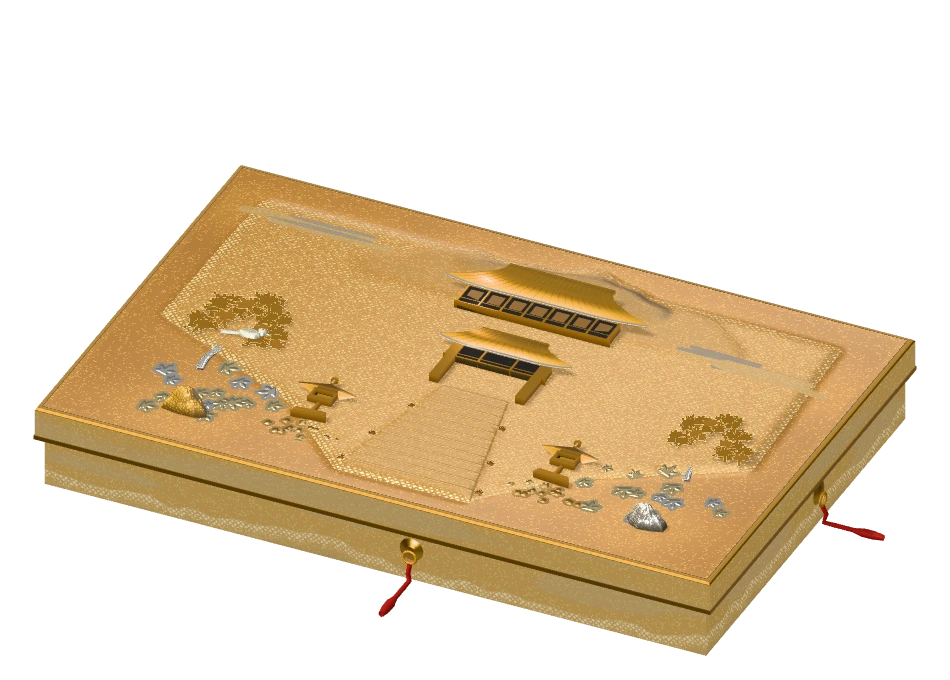
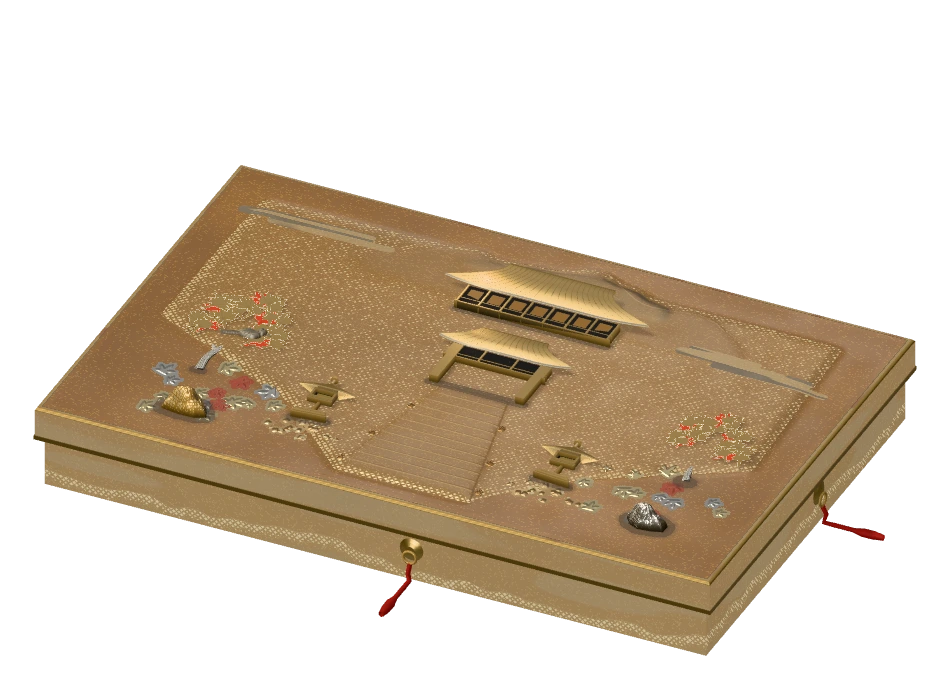
feat(plate): worn lip and corners, dirt down the walls, age .85 by default; fallback pictures reshot (patina P5)
- Lid border wears through to the under-lacquer in patches, most at the corners;
  box walls darken toward the foot and under the lid; the box's gold edges go pale.
- AGE_DEFAULT .85 (median luminance 50-53 against the Hatsune photo's 50-53).
- plate-shot.mjs: PLATE_CPU throttles before PLATE_EVAL, for frame-time readings.
- Test for agedSpec and the unsoftened contact field.
- docs: results and what missed its target in plans/2026-11-16-patina.md; handoff.

Changed region(s): [[0.0305, 0.2471, 0.9768, 0.8647], [0.4274, 0.8029, 0.4579, 0.8338]]

diff --git a/src/studies/toji/plate/three-pack.js b/src/studies/toji/plate/three-pack.js
@@ -61,11 +61,11 @@ export const BOX_MATERIALS = {
   // Hatsune: the whole body is nashiji (amber lacquer over gold powder), not black lacquer (user decision, handoff §3).
   20: {name: 'side', color: '#a8722e', metalness: .72, roughness: .45, clearcoat: 1, clearcoatRoughness: .06, flake: 0, nashijiSide: true},
   // The lid's lip: gold, as on the Hatsune boxes (museum photos show no silver rim).
-  21: {name: 'rim', color: '#c39345', metalness: 1, roughness: .3, clearcoat: .2, clearcoatRoughness: .1, flake: .2},
+  21: {name: 'rim', aged: {color: '#ad9668', roughness: .46}, color: '#c39345', metalness: 1, roughness: .3, clearcoat: .2, clearcoatRoughness: .1, flake: .2},
   22: {name: 'inner', color: '#8c6a2d', metalness: .8, roughness: .5, clearcoat: .5, clearcoatRoughness: .1, flake: .5},
   23: {name: 'paper', color: '#cdbd98', metalness: 0, roughness: .9, clearcoat: 0, clearcoatRoughness: 0, flake: 0},
-  24: {name: 'gold', color: '#d7a64a', metalness: 1, roughness: .3, clearcoat: .2, clearcoatRoughness: .1, flake: .3},
-  26: {name: 'edge', color: '#c99a42', metalness: 1, roughness: .3, clearcoat: .2, clearcoatRoughness: .1, flake: .3},
+  24: {name: 'gold', aged: {color: '#c2aa76', roughness: .46}, color: '#d7a64a', metalness: 1, roughness: .3, clearcoat: .2, clearcoatRoughness: .1, flake: .3},
+  26: {name: 'edge', aged: {color: '#b39c6c', roughness: .46}, color: '#c99a42', metalness: 1, roughness: .3, clearcoat: .2, clearcoatRoughness: .1, flake: .3},
   27: {name: 'cord', color: '#85100a', metalness: 0, roughness: .6, clearcoat: 0, clearcoatRoughness: 0, flake: 0},
   28: {name: 'tray', color: '#b4843a', metalness: .8, roughness: .5, clearcoat: .5, clearcoatRoughness: .1, flake: .5},
 };
@@ -502,7 +502,7 @@ const vec3 M_AGE_BODY=vec3(.42,.35,.22), M_AGE_BODY_NIGHT=vec3(.80,.74,.62), M_A
 // The coat no longer mirrors evenly (M_AGE_HAZE: how far its gloss swings from place to place), the lacquer lies a
 // little thicker here and thinner there (M_AGE_MURA: the swing in the ground's value), and where a bank's crown has
 // been rubbed for centuries the red-brown under-lacquer shows through the gold (M_AGE_WEAR, M_UNDER).
-const float M_AGE_HAZE=1.1, M_AGE_MURA=.26, M_AGE_WEAR=.5;
+const float M_AGE_HAZE=1.1, M_AGE_MURA=.26, M_AGE_WEAR=.3;
 const vec3 M_UNDER=vec3(.21,.075,.04);
 const vec3 M_CORAL=vec3(.60,.115,.06);
 const vec3 M_TARNISH=vec3(.46,.42,.36);
@@ -630,6 +630,10 @@ if(abs(kp.x)>M_HALF.x||abs(kp.y)>M_HALF.y){
   vec2 e=abs(kp)-M_HALF;float out_=max(e.x,e.y);
   mWake=0.;mSh=1.;mSetLight(normalize(vKyotoNormal),vKyotoWorld);
   vec3 bc=out_>7.4?mMetal(kp,M_GOLD*.92,1.):out_>6.4?mMetal(kp,M_GOLD*.6,1.):mNashiji(kp,.9,M_GOLD);
+  // The lip is where hands lift the lid: its gold has worn through to the lacquer in patches, most at the corners.
+  float corner=smoothstep(.86,1.,min(abs(kp.x)/M_HALF.x,abs(kp.y)/M_HALF.y));
+  float worn=uAge*step(6.4,out_)*smoothstep(.62-.22*corner,.80,mVnoise(kp*.045+2.))*.7;
+  bc=mix(bc,M_UNDER*(.3+mLight()),worn);
   outgoingLight=mFinish(bc,1.).rgb;
   diffuseColor.a=1.;
 }else{
@@ -732,7 +736,7 @@ if(abs(kp.x)>M_HALF.x||abs(kp.y)>M_HALF.y){
     c=mix(c,wtr,m);
   }
   if(uAge>0.&&mat>=2&&mat<=4){
-    float wr=smoothstep(.45,.85,hs)*smoothstep(.52,.74,mVnoise(kp*.16+5.))*M_AGE_WEAR*uAge;
+    float wr=smoothstep(.62,.95,hs)*smoothstep(.50,.72,mVnoise(M_R1*kp*.07+5.)*.62+mVnoise(M_R2*kp*.19)*.38)*M_AGE_WEAR*uAge;
     c=mix(c,M_UNDER*(.3+L),wr);
   }
   if(uAge>0.){
@@ -774,6 +778,9 @@ export const BOX_SIDE_FRAG_GLSL = `
   c=mix(c,mKiriColor(mix(M_GOLD,M_PALE,.6)),kv)+M_PALE*kg;
   // Walls face the room, not the window: keep them a warmer, slightly deeper amber than the lid.
   const float K_SIDE_DIM=.82; // dim box walls one step below the lid while keeping rim and edge bright
+  // Dirt gathers toward the foot of the walls, and under the lid's overhang.
+  float low=smoothstep(-96.,-132.,sp.y)*(.75+.5*mVnoise(vec2(sp.x*.02,7.))),under=body*smoothstep(-47.,-36.,sp.y);
+  c=mix(c,c*vec3(.50,.43,.36),clamp(low*.62+under*.4,0.,.8)*uAge);
   outgoingLight=mFinish(c*vec3(1.,.86,.62)*.9*K_SIDE_DIM,1.).rgb;
 }`;
 

diff --git a/src/studies/toji/plate/three-renderer.js b/src/studies/toji/plate/three-renderer.js
@@ -29,7 +29,7 @@ import {
 
 const EYE = [430, 720, 920], TARGET = [0, 40, 0];
 /** How old the box looks unless ?age= says otherwise: 0 is as new, 1 is the Hatsune trousseau as it is today. */
-const AGE_DEFAULT = .7;
+const AGE_DEFAULT = .85;
 const VIEW = normalize(EYE.map((v, i) => v - TARGET[i])), KEY = normalize([-.5, .78, .22]);
 const STRIDE = 10;
 const SHADOW_SOFT = 6; // PCF shadow filter radius in texels for softer window-light penumbra
@@ -364,8 +364,8 @@ normal = normalize(normal - kyotoGrad.x * vTreeTanX - kyotoGrad.y * vTreeTanZ);`
   boxGroup.add(mesh(buffers(lidTop.position, lidTop.normal, lidTop.uv, lidTop.part), groundMaterial, groundDepth));
   let boxVertices = box.lidTop;
   for (const [id, slice] of sliceBox(box.data, box.lidTop, box.opaque)) {
-    const spec = BOX_MATERIALS[id];
-    if (!spec) throw new Error(`three renderer: no material for box id ${id}`);
+    if (!BOX_MATERIALS[id]) throw new Error(`three renderer: no material for box id ${id}`);
+    const spec = agedSpec(BOX_MATERIALS[id], shared.uAge.value);
     // The cords are drawn live; the fixed geometry here never carries id 27 (they come from cordTube), but guard anyway.
     const boxMaterial = patchMaterial(physical(spec), spec, BOX_MOTION_GLSL, 'kyotoBox');
     if (spec.nashijiSide) {

diff --git a/docs/HANDOFF.md b/docs/HANDOFF.md
@@ -7,7 +7,7 @@
 | 項目 | 狀態 |
 |---|---|
 | 主線 | `main` 與 `origin/main` 在 `7dca894`（2026-11-16，使用者同意合併與 push，部署成功）：開案書 R0–R10 與銀的補強都已上線。實際 HEAD 以 `git log -1 main` 為準 |
-| 工作分支 | `claude/patina-1116`（從 `main` 開）：目前只有作舊的開案書 [`plans/2026-11-16-patina.md`](plans/2026-11-16-patina.md)，**等使用者同意後開工**。上一輪的總表見 [`agent-runs/2026-11-16-overnight-chain.md`](agent-runs/2026-11-16-overnight-chain.md) |
+| 工作分支 | `claude/patina-1116`（從 `main` 開）：作舊與材質深度 P0–P5、紅珊瑚與青貝（[開案書與結果](plans/2026-11-16-patina.md)）。**尚未合併 `main`、尚未 push**。上一輪的總表見 [`agent-runs/2026-11-16-overnight-chain.md`](agent-runs/2026-11-16-overnight-chain.md) |
 | 本機分支清理 | 2026-11-16 刪除已併入 `main` 的本機 `claude/great-brahmagupta-ye2uqt`、`claude/threert-reference`（刪前確認 `git log main..<branch>` 為 0） |
 | 遠端分支 | 2026-11-16 刪除已併入 `main` 的 `origin/claude/great-brahmagupta-ye2uqt`、`origin/claude/amazing-cerf-cuoj8j`（使用者同意）。遠端只剩 `main` |
 | 子代理工作樹 | 放在 `C:\Git\_wt_kyoto_<topic>`（`git worktree add`），由主代理建立與刪除。本輪用過的兩個已移除；目前有哪些以 `git worktree list` 為準 |
@@ -31,27 +31,28 @@ npm run dev -- --host 127.0.0.1 --strictPort
 |---|---|
 | 資料 | **792 筆**，`validate_data.js --strict` ERROR 0／WARN 0。2026-11-16 查完十一區所有食處（Tabelog）與「世界遺產」「國寶」標籤：退役 17 筆、改區 27 筆。「營業中」的依據是 Tabelog 英文版沒有閉店類標示，不是現場確認。寺社、商店等其他類型的事實查核還沒做 |
 | 首頁文庫 | 十一區文箱，每區一面蒔繪盤；單指盒面移光，長拖換函，雙指捏合／滾輪／快捷鍵放大（上限 3 倍），點蓋／Enter／空白鍵開蓋直入 `DetailView`；月光預設、閒置移光 |
-| 蒔繪盤 | **只有 three.js 一條管線**（`plate/three-renderer.js`＋`three-pack.js`）。舊的自寫 WebGL2 管線、2.5D 浮雕與 `?three=0` 已刪。狐、鳳凰、鶯、銀沙灘與向月台、石垣都是 three 網格，沒有平塗佔位。岩面是菱形切金（受光大而密、背光小而疏），銀岩是銀。地有疏密場（靠近物較密）。九區有依附小景（`plate/<區>.js` 裡帶 `on` 欄位的部件）。**銀的分工**（2026-11-16 對照德川美術館「初音蒔絵文台・硯箱（部分）」照片）：葉是金的樹，幹與枝是銀（背光氧化銀灰、受光淡銀、上面是切銀）；開銀花的櫻保留金幹；霞帶的金裡躺著細長的灰銀條 |
+| 蒔繪盤 | **只有 three.js 一條管線**（`plate/three-renderer.js`＋`three-pack.js`）。舊的自寫 WebGL2 管線、2.5D 浮雕與 `?three=0` 已刪。狐、鳳凰、鶯、銀沙灘與向月台、石垣都是 three 網格，沒有平塗佔位。岩面是菱形切金（受光大而密、背光小而疏），銀岩是銀。地有疏密場（靠近物較密）。九區有依附小景（`plate/<區>.js` 裡帶 `on` 欄位的部件）。**銀的分工**（2026-11-16 對照德川美術館「初音蒔絵文台・硯箱（部分）」照片）：葉是金的樹，幹與枝是銀（背光氧化銀灰、受光淡銀、上面是切銀）；開銀花的櫻保留金幹；霞帶的金裡躺著細長的灰銀條。**作舊**（`claude/patina-1116`，未上線）：總開關 `?age=0..1`（預設 .85，0 是全新）；地是深棕橙的梨子地、圖的金比地淡、岩與樹幹的陰面是硫化銀的暖深灰、部件腳邊有積汙；代表白色的銀（砂、狐、花）保持淡；紅珊瑚（`MAT.coral`）用在楓葉、梅心、「大」字 |
 | 降級 | 沒有 WebGL2、three 載入或啟動失敗、context 遺失、或網址加 `?plate=static` 時，顯示預渲染的靜態圖（`plate/static/` 22 張 webp，十一區 × 日夜），換函與開蓋照常，盒面不動。**盤面有改動就要重拍**：`node scripts/plate-fallback-shots.mjs`（dev server 在 3000） |
 | 全站 UI | 手機優先、深色預設；暖日／月光、語系、減少動態全站共用（色票唯一來源 `src/theme.css`）。卡片有傾斜與柔光（觸控只有按壓回饋）、篩選後新卡片淡入；30 張以上的列表分批渲染（`src/lib/batch-render.ts`） |
 | 背景 | すやり霞＋和紙＋金箔／銀塵、障子格光與卓面光澤（`backdrop.js`）；十一區各自的紋樣與一行短句（`ward-art.js`，2026-11-16 改寫為「地標＋該區另一個重點」） |
 | 歲時記 | 只有[計畫](SEASONAL_PLAN.md)；首頁入口已移除 |
 | 文箱架構 | `study.js`（`mountBunko`：手勢、移光、縮放、換函、開蓋）、`renderer.js`（選 three 或靜態圖）、`plate/three-renderer.js`＋`three-pack.js`、`plate/static-plate.js`、`plate/parts.js`＋`vocab.js`＋`mat.js`＋`<區>.js`（構圖資料）、`plate/creature-mesh.js`／`rock-mesh.js`／`architecture-mesh.js` 等（網格）、`backdrop.js`＋`ward-art.js`（背景） |
 
-## 3. 最近一次驗收（2026-11-16，`claude/roadmap-1116` `0734d1d`）
+## 3. 最近一次驗收（2026-11-16，`claude/patina-1116`）
 
 | 檢查 | 結果 |
 |---|---|
 | `npm run lint` | exit 0 |
 | `npx --no-install tsx validate_data.js --strict` | ERROR 0、WARN 0，792 筆 |
-| `npm test` | `scripts/*.test.mjs` 128/128、`src/lib/*.test.ts` 17/17 |
-| `npm run build` | exit 0；`three-renderer` chunk gzip 約 195 KB |
+| `npm test` | `scripts/*.test.mjs` 129/129、`src/lib/*.test.ts` 17/17 |
+| `npm run build` | exit 0；`three-renderer` chunk gzip 約 198 KB |
+| 盤面調子 | `PLATE_TONE=1 node scripts/plate-shot.mjs <outDir> <job…>`；數字與目標見 [`plans/2026-11-16-patina.md`](plans/2026-11-16-patina.md) §9 |
 
-截圖都是無頭 Chrome（桌機 GPU）拍的，存在子代理的工作樹裡，已隨工作樹刪除。**本輪所有畫面改動使用者都還沒在實機上看過。**
+截圖都是無頭 Chrome（桌機 GPU）拍的，放在 `.shots/`（不提交）。**作舊的畫面使用者還沒在實機上看過。** 改著色器時不要用 `sed -i`：dev server 偵測不到，會量到舊的。
 
 ## 4. 下一步
 
-1. **等使用者決定**：[作舊與材質深度的開案書](plans/2026-11-16-patina.md)要不要照做。
+1. **等使用者決定**：`claude/patina-1116` 合併進 `main`、push（各自分開問）。上線前建議使用者在本機看：十一區日夜、放大後岩石腳邊的積汙、`?age=0` 與 `?age=1` 的對照。
 2. 地圖：使用者 2026-11-16 決定不做（現況夠用）。[備忘錄](plans/2026-11-16-r10-map-evaluation.md)留作紀錄。
 3. 12 月複查三家店：HY-065 八咫（臨時休業）、NK-120 村上開新堂（改裝休業）、NK-111（新店無評論）；仍未營業就退役。
 4. 還沒做的：歲時記（R11）；寺社與商店類的事實查核；各食處報告裡列的描述細節（米其林、創業年）；背景霞帶避開盒子的輪廓是照舊盒子調的，比 three 的盒子窄 2–10 px。
